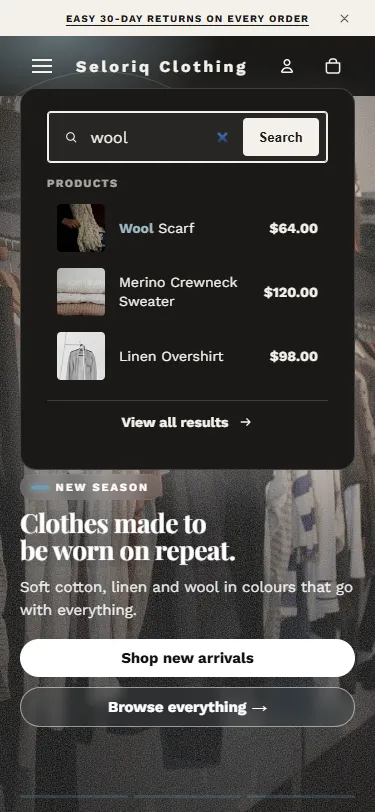
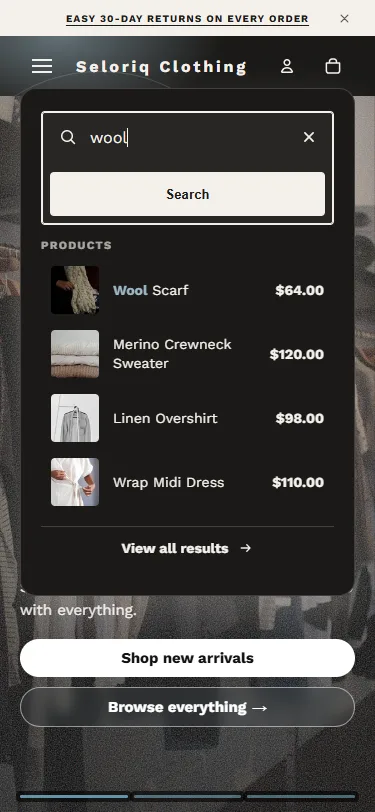
Aurora glow search: clear button, 44px Search button, phone layout; retaken search pictures

diff --git a/headers.md b/headers.md
@@ -1,6 +1,6 @@
 ---
 title: Headers and the announcement bar
-updated: 2026-10-23
+updated: 2026-10-25
 ---
 
 # Headers and the announcement bar
